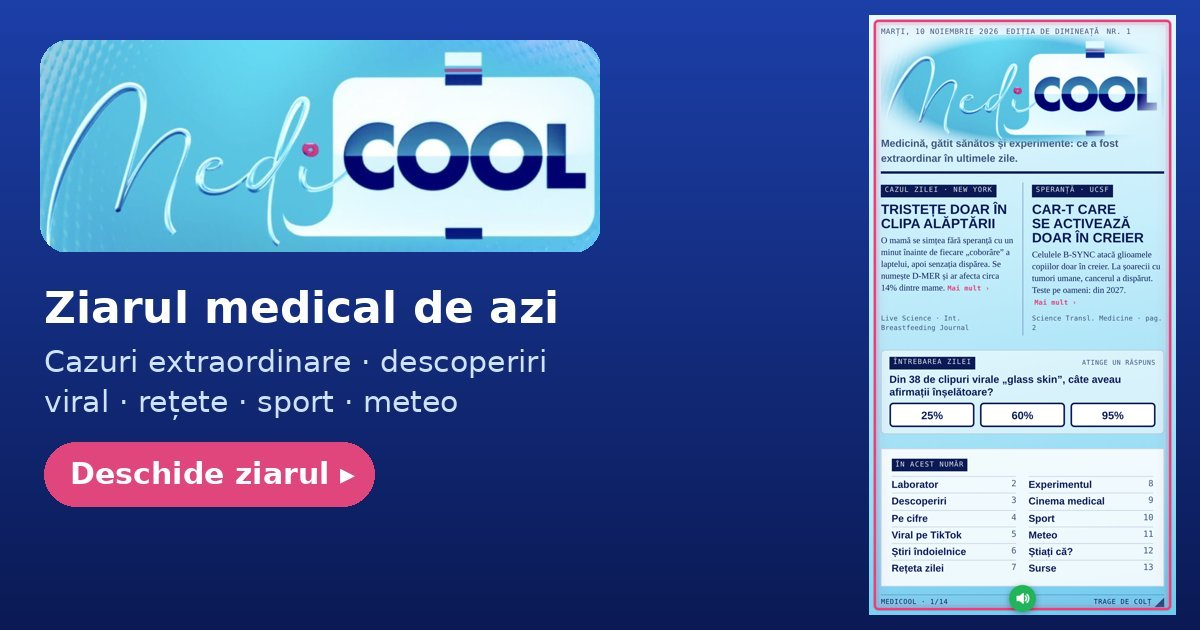
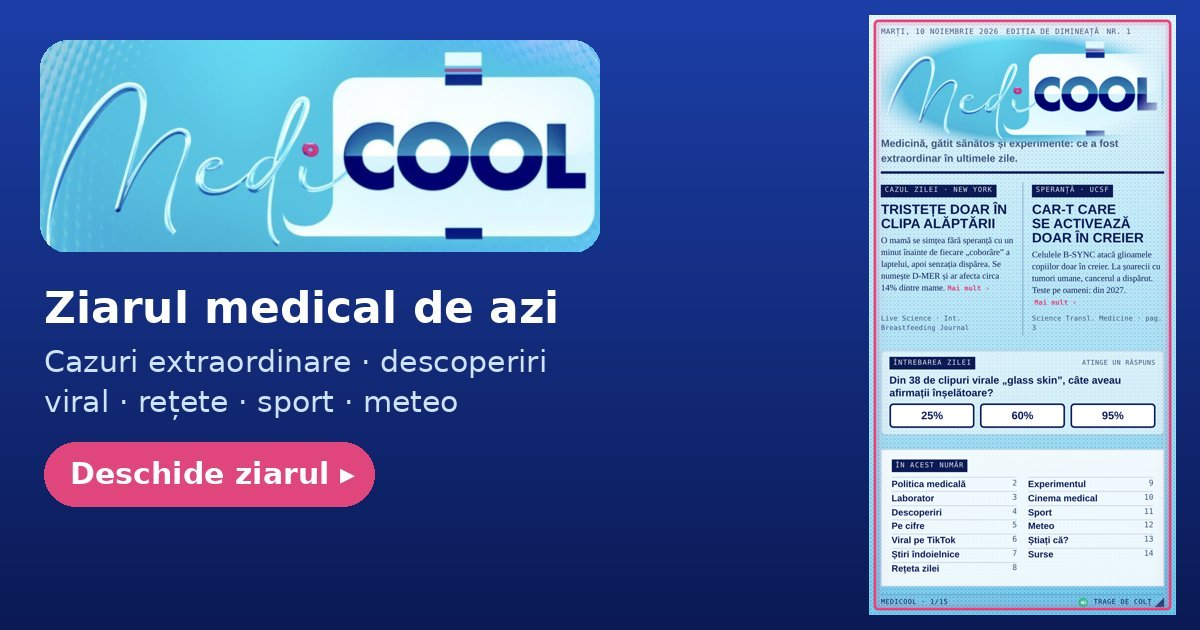
Pagină nouă: Politica medicală (pag. 2)
Claude-Session: https://claude.ai/code/session_01FzDV5b68UMWScboPR3TvHi

Changed region(s): [[0.74, 0.5429, 0.9558, 0.9048], [0.8325, 0.754, 0.9558, 0.9952], [0.7708, 0.9349, 0.8017, 0.9651]]

diff --git a/2026-11-10/ziar.html b/2026-11-10/ziar.html
@@ -182,6 +182,13 @@ p{margin:0}
   background-size:5px 5px,5px 5px;background-position:0 0,2.5px 2.5px;
   -webkit-mask-image:linear-gradient(172deg,rgba(0,0,0,.35) 0%,rgba(0,0,0,.6) 45%,#000 100%);mask-image:linear-gradient(172deg,rgba(0,0,0,.35) 0%,rgba(0,0,0,.6) 45%,#000 100%)}
 .page>.pg{position:relative;z-index:1}
+.tile.pol h2{font-size:1.12em}
+.page.cover .index{font-size:.84em}
+.page.cover .index li{padding:.02em 0}
+.tile.pol p{font-size:.84em;line-height:1.34;margin:.25em 0 0}
+.tile.pol .pv{font-size:.8em;border-top:1px dashed rgba(11,26,85,.3);padding-top:.3em;margin-top:.35em}
+.tile.pol.sm b{display:block;font-family:var(--font-display);font-stretch:85%;font-weight:800;font-size:.98em;line-height:1.1;margin:.25em 0 .15em}
+.tile.pol.sm p{font-size:.78em}
 .hd.novid,.dub.novid{grid-template-columns:1fr!important}
 .vid.th,.vthumb.th{background-size:cover!important;background-position:center!important}
 .vid.th:before,.vthumb.th:before{background:linear-gradient(180deg,rgba(11,26,85,.15) 0%,rgba(11,26,85,0) 35%,rgba(11,26,85,.75) 100%)!important}
@@ -258,22 +265,48 @@ subiecte_recente: 2026-11-09 copil de piatră Somaliland; gel smalț Nottingham;
         <span class="kicker">Speranță · UCSF</span>
         <h2>CAR-T care se activează doar în creier</h2>
         <p>Celulele B-SYNC atacă glioamele copiilor doar în creier. La șoarecii cu tumori umane, cancerul a dispărut. Teste pe oameni: din 2027.<a class="more" href="https://www.sciencedaily.com/releases/2026/11/261104084009.htm" target="_blank" rel="noopener">Mai mult ›</a></p>
-        <span class="src">Science Transl. Medicine · pag. 2</span>
+        <span class="src">Science Transl. Medicine · pag. 3</span>
       </article>
     </div>
     <div class="quiz" data-ok="c">
       <div class="qhead"><span class="kicker">Întrebarea zilei</span><span class="qhint">atinge un răspuns</span></div>
       <p class="qq">Din 38 de clipuri virale „glass skin”, câte aveau afirmații înșelătoare?</p>
       <div class="qopts"><button type="button" class="qopt" data-k="a">25%</button><button type="button" class="qopt" data-k="b">60%</button><button type="button" class="qopt" data-k="c">95%</button></div>
-      <p class="qexp"><b>Răspuns: 95%</b> din clipurile „glass skin” aveau afirmații înșelătoare. Doar unul pomenea iritația (pag. 5).</p>
+      <p class="qexp"><b>Răspuns: 95%</b> din clipurile „glass skin” aveau afirmații înșelătoare. Doar unul pomenea iritația (pag. 6).</p>
     </div>
     <div class="tile"><span class="kicker">În acest număr</span>
         <ul class="index cols2">
-          <li>Laborator<span>2</span></li><li>Descoperiri<span>3</span></li><li>Pe cifre<span>4</span></li><li>Viral pe TikTok<span>5</span></li><li>Știri îndoielnice<span>6</span></li><li>Rețeta zilei<span>7</span></li><li>Experimentul<span>8</span></li><li>Cinema medical<span>9</span></li><li>Sport<span>10</span></li><li>Meteo<span>11</span></li><li>Știați că?<span>12</span></li><li>Surse<span>13</span></li>
+          <li>Politica medicală<span>2</span></li><li>Laborator<span>3</span></li><li>Descoperiri<span>4</span></li><li>Pe cifre<span>5</span></li><li>Viral pe TikTok<span>6</span></li><li>Știri îndoielnice<span>7</span></li><li>Rețeta zilei<span>8</span></li><li>Experimentul<span>9</span></li><li>Cinema medical<span>10</span></li><li>Sport<span>11</span></li><li>Meteo<span>12</span></li><li>Știați că?<span>13</span></li><li>Surse<span>14</span></li>
         </ul>
       </div>
   </div>
-  <div class="foot"><span>Medicool · 1/14</span><span class="turn">Trage de colț <i></i></span></div>
+  <div class="foot"><span>Medicool · 1/15</span><span class="turn">Trage de colț <i></i></span></div>
+</div></div>
+
+<!-- 2 · POLITICA MEDICALA -->
+<div class="page"><div class="pg">
[1 lines of base64/hex data omitted]
+  <h1 class="section">Politica medicală</h1>
+  <div class="grow">
+    <article class="tile mark pol">
+      <span class="kicker">Pacienți cronici · RMN și CT</span>
+      <h2>Un singur RMN pe an, de zece luni</h2>
+      <p>Din ianuarie, cronicii în monitorizare au decontată o singură investigație de înaltă performanță pe an. Ordonanța care elimina limita, pusă în dezbatere în aprilie, nu a fost adoptată. Senatul a votat pe 12 octombrie, fără voturi împotrivă, proiectul L550/2026.</p>
+      <p class="pv"><b>Critici:</b> 13 asociații de pacienți spun că amânarea investigațiilor agravează bolile. <a class="more" href="https://www.dcnews.ro/asociatiile-de-pacienti-cer-guvernului-eliminarea-limitarii-investigatiilor-medicale-si-acces-echitabil-pentru-toti-bolnavii-cronici_1091160.html" target="_blank" rel="noopener">Mai mult ›</a></p>
+    </article>
+    <article class="tile pol">
+      <span class="kicker">Concediu medical · OUG 91/2025</span>
+      <h2>Prima zi de boală nu se mai plătește</h2>
+      <p>Din 1 februarie, prima zi de concediu medical nu e plătită, iar indemnizația e 55% până la 7 zile. Din iunie sunt exceptate maternitatea, internările și pacienții din programele naționale.</p>
+      <p class="pv"><b>Critici:</b> pacienții cronici au strâns semnături, iar Cartel Alfa a cerut sesizarea CCR. <b>Guvernul:</b> combate concediile fictive; regula există și în Spania sau Belgia. <a class="more" href="https://www.digi24.ro/stiri/actualitate/social/prima-zi-de-concediu-medical-nu-va-mai-fi-platita-pacientii-cronici-protesteaza-inseamna-painea-pe-o-saptamana-3610717" target="_blank" rel="noopener">Mai mult ›</a></p>
+    </article>
+    <div class="row">
+      <div class="tile pol sm"><span class="kicker">Analize „gratuite”</span><b>Fonduri epuizate la laborator</b><p>Ministrul Alexandru Rogobete: unele laboratoare afișează sigla CNAS deși au plafoane mici. Vrea ca suma contractată să fie publică; încă fără dată. <a class="more" href="https://brasovstiri.ro/mergi-la-analize-gratuite-si-afli-ca-nu-mai-sunt-fonduri-ministrul-sanatatii-anunta-schimbari-pentru-laboratoarele-private/" target="_blank" rel="noopener">Mai mult ›</a></p></div>
+      <div class="tile pol sm"><span class="kicker">Fără venit</span><b>Asigurare de 2.430 lei pe an</b><p>Din august 2025, soții și părinții fără venit nu mai sunt coasigurați gratuit. Fără plată, rămân doar pachetul minimal și consultațiile preventive. <a class="more" href="https://www.economica.net/?p=905560" target="_blank" rel="noopener">Mai mult ›</a></p></div>
+    </div>
+    <p class="note" style="color:var(--ink)"><b>Medicii de familie:</b> plata per pacient −32%, per consultație +29%. Medicii se tem de închiderea unor cabinete rurale; Ministerul: banii urmează actul medical. <a class="more" href="https://www.digi24.ro/stiri/guvernul-a-redus-plata-per-pacient-si-a-crescut-plata-pe-consultatii-pentru-medicii-de-familie-din-2026-3567971" target="_blank" rel="noopener">Mai mult ›</a></p>
+  </div>
+  <div class="foot"><span>Medicool · 2/15</span><span class="turn">Trage de colț <i></i></span></div>
 </div></div>
 
 <!-- 2 · LABORATOR -->
@@ -295,7 +328,7 @@ subiecte_recente: 2026-11-09 copil de piatră Somaliland; gel smalț Nottingham;
       <span class="src">ScienceDaily · Nature Communications</span>
     </article>
   </div>
-  <div class="foot"><span>Medicool · 2/14</span><span class="turn">Trage de colț <i></i></span></div>
+  <div class="foot"><span>Medicool · 3/15</span><span class="turn">Trage de colț <i></i></span></div>
 </div></div>
 
 <!-- 3 · DESCOPERIRI -->
@@ -309,7 +342,7 @@ subiecte_recente: 2026-11-09 copil de piatră Somaliland; gel smalț Nottingham;
     <p class="note">Niciunul nu e încă tratament aprobat. Rapamicina nu a demonstrat că previne Alzheimerul.</p>
     <span class="src">ScienceDaily · J Exp Med · JCO Oncology Advances · PNAS · J Cereb Blood Flow Metab</span>
   </div>
-  <div class="foot"><span>Medicool · 3/14</span><span class="turn">Trage de colț <i></i></span></div>
+  <div class="foot"><span>Medicool · 4/15</span><span class="turn">Trage de colț <i></i></span></div>
 </div></div>
 
 <!-- 4 · PE CIFRE -->
@@ -330,7 +363,7 @@ subiecte_recente: 2026-11-09 copil de piatră Somaliland; gel smalț Nottingham;
       <span class="src">ScienceDaily · JAMA Network Open</span>
     </article>
   </div>
-  <div class="foot"><span>Medicool · 4/14</span><span class="turn">Trage de colț <i></i></span></div>
+  <div class="foot"><span>Medicool · 5/15</span><span class="turn">Trage de colț <i></i></span></div>
 </div></div>
 
 <!-- 5 · VIRAL -->
@@ -355,7 +388,7 @@ subiecte_recente: 2026-11-09 copil de piatră Somaliland; gel smalț Nottingham;
     <a class="vid" href="https://www.youtube.com/watch?v=CHPlvplwOWw" target="_blank" rel="noopener"><span class="plat">▶ YouTube · specialiști în îngrijirea pielii</span><span class="play"></span><span class="cap">Adevărul despre trendul „glass skin”</span></a>
     <div class="vidnote">Atinge imaginea: clipul se deschide în YouTube</div>
   </div>
-  <div class="foot"><span>Medicool · 5/14</span><span class="turn">Trage de colț <i></i></span></div>
+  <div class="foot"><span>Medicool · 6/15</span><span class="turn">Trage de colț <i></i></span></div>
 </div></div>
 
 <!-- 6 · INDOIELNICE -->
@@ -366,7 +399,7 @@ subiecte_recente: 2026-11-09 copil de piatră Somaliland; gel smalț Nottingham;
     <p style="font-size:.86em;margin-top:-.2em">Obiceiuri, tratamente și povești care circulă ca adevăruri, dar n-au dovezi științifice serioase. <b>Nu le încercați acasă.</b></p>
 <div class="tile dub"><a class="vthumb" href="https://www.youtube.com/watch?v=AJI_kn_-jGE" target="_blank" rel="noopener"><span class="play"></span><span class="plat">▶ YouTube</span></a><div><h3>Plasturii „detox” pentru tălpi</h3><p>Se înnegresc peste noapte și ar „scoate toxinele”. Mayo Clinic: nicio dovadă de încredere. Corpul se curăță singur, prin ficat și rinichi. Culoarea vine de la oțetul de lemn din plasture, care se închide la contactul cu transpirația.<a class="more" href="https://www.mayoclinic.org/healthy-living/consumer-health/expert-answers/detox-foot-pads/faq-20057807" target="_blank" rel="noopener">Mai mult ›</a></p></div><span class="stamp">Fals</span></div><div class="tile dub"><a class="vthumb" href="https://www.youtube.com/watch?v=qq8hfhBKag4" target="_blank" rel="noopener"><span class="play"></span><span class="plat">▶ YouTube</span></a><div><h3>Apa alcalină „echilibrează pH-ul”</h3><p>Sucul gastric o neutralizează aproape imediat. Beneficiile promise nu au fost testate corect, spune Cleveland Clinic. Hidratează ca apa obișnuită. pH-ul sângelui rămâne între 7,35 și 7,45, ținut de plămâni și rinichi, orice ai bea.<a class="more" href="https://health.clevelandclinic.org/alkaline-water-dont-believe-the-marketing-hype" target="_blank" rel="noopener">Mai mult ›</a></p></div><span class="stamp">Exagerat</span></div><div class="tile dub"><a class="vthumb" href="https://www.youtube.com/watch?v=T58YRgdrljM" target="_blank" rel="noopener"><span class="play"></span><span class="plat">▶ YouTube</span></a><div><h3>Argintul coloidal, „antibiotic natural”</h3><p>Nu are niciun rol în corp. Poate colora pielea gri-albăstrui, de obicei pentru totdeauna (argirie), și încurcă unele medicamente. Din 1999, FDA consideră că niciun produs cu argint coloidal nu e sigur și eficient.<a class="more" href="https://www.nccih.nih.gov/health/colloidal-silver" target="_blank" rel="noopener">Mai mult ›</a></p></div><span class="stamp">Periculos</span></div><div class="tile dub"><a class="vthumb" href="https://www.youtube.com/watch?v=0ZozqP359UY" target="_blank" rel="noopener"><span class="play"></span><span class="plat">▶ YouTube</span></a><div><h3>Heroina, sirop de tuse în 1898</h3><p>Bayer a lansat-o pentru tuse și răceală. A fost lăudată ca înlocuitor „fără dependență” al morfinei. Nu era deloc așa. Bayer a oprit producția abia în 1913, după valul de dependențe.<a class="more" href="https://atlasobscura.com/articles/narcotics-in-medicine" target="_blank" rel="noopener">Mai mult ›</a></p></div><span class="stamp dead">Mortal · 1898</span></div>
   </div>
-  <div class="foot"><span>Medicool · 6/14</span><span class="turn">Trage de colț <i></i></span></div>
+  <div class="foot"><span>Medicool · 7/15</span><span class="turn">Trage de colț <i></i></span></div>
 </div></div>
 
 <!-- 7 · RETETA -->
@@ -398,7 +431,7 @@ subiecte_recente: 2026-11-09 copil de piatră Somaliland; gel smalț Nottingham;
     <div class="tile"><span class="kicker">De ce merge</span><p style="font-size:.86em;margin:.3em 0 0">Năutul aduce proteine și fibre, dovleacul beta-caroten, semințele magneziu și zinc. Ține două zile la frigider.</p></div>
     <a class="vid sm" href="https://www.youtube.com/watch?v=_H5PqGHaSN0" target="_blank" rel="noopener"><span class="play"></span><span class="cap"><span class="plat">▶ YouTube · rețetă</span><br>Salată de năut și dovleac copt, bogată în fibre</span></a>
   </div>
-  <div class="foot"><span>Medicool · 7/14</span><span class="turn">Trage de colț <i></i></span></div>
+  <div class="foot"><span>Medicool · 8/15</span><span class="turn">Trage de colț <i></i></span></div>
 </div></div>
 
 <!-- 8 · EXPERIMENT -->
@@ -429,7 +462,7 @@ subiecte_recente: 2026-11-09 copil de piatră Somaliland; gel smalț Nottingham;
       <a class="vid sm" href="https://www.youtube.com/watch?v=58MZ_WbJUGs" target="_blank" rel="noopener"><span class="play"></span><span class="cap"><span class="plat">▶ YouTube · Richard Ostfeld</span><br>Căpușele, șoarecii și borelioza</span></a>
     </article>
   </div>
-  <div class="foot"><span>Medicool · 8/14</span><span class="turn">Trage de colț <i></i></span></div>
+  <div class="foot"><span>Medicool · 9/15</span><span class="turn">Trage de colț <i></i></span></div>
 </div></div>
 
 <!-- 9 · CINEMA -->
@@ -460,7 +493,7 @@ subiecte_recente: 2026-11-09 copil de piatră Somaliland; gel smalț Nottingham;
       </ul>
     </article>
   </div>
-  <div class="foot"><span>Medicool · 9/14</span><span class="turn">Trage de colț <i></i></span></div>
+  <div class="foot"><span>Medicool · 10/15</span><span class="turn">Trage de colț <i></i></span></div>
 </div></div>
 
 <!-- 10 · SPORT -->
@@ -485,7 +518,7 @@ subiecte_recente: 2026-11-09 copil de piatră Somaliland; gel smalț Nottingham;
       <span class="src">Nature Communications · Pennington</span>
     </article>
   </div>
-  <div class="foot"><span>Medicool · 10/14</span><span class="turn">Trage de colț <i></i></span></div>
+  <div class="foot"><span>Medicool · 11/15</span><span class="turn">Trage de colț <i></i></span></div>
 </div></div>
 
 <!-- 11 · METEO -->
@@ -514,7 +547,7 @@ subiecte_recente: 2026-11-09 copil de piatră Somaliland; gel smalț Nottingham;
     <p class="note" style="color:var(--ink)"><b>Nicio atenționare meteo anunțată pentru azi.</b> Joi și vineri se încălzește spre 18–21°C în sud și vest, apoi răcire bruscă pe 14–16 noiembrie. Salturile mari îi afectează pe meteosensibili.<a class="more" href="https://observatornews.ro/vremea/urmeaza-cateva-zile-cu-temperaturi-de-pana-la-20c-apoi-vine-iar-frigul-prognoza-meteo-9-22-noiembrie-2026-671743.html" target="_blank" rel="noopener">Mai mult ›</a></p>
     <span class="src">Orașe: vremeain.ro (Timișoara: județul Timiș) · Sfaturi generale, nu recomandări medicale individuale.</span>
   </div>
-  <div class="foot"><span>Medicool · 11/14</span><span class="turn">Trage de colț <i></i></span></div>
+  <div class="foot"><span>Medicool · 12/15</span><span class="turn">Trage de colț <i></i></span></div>
 </div></div>
 
 <!-- 12 · STIATI CA -->
@@ -528,7 +561,7 @@ subiecte_recente: 2026-11-09 copil de piatră Somaliland; gel smalț Nottingham;
       <article class="tile fact"><span class="fnum">4</span><div><h3>Scheletul se reface cam la 10 ani.</h3><p>Oasele sunt țesut viu: celule speciale dizolvă osul vechi și construiesc os nou, continuu, toată viața. Masa osoasă atinge maximul în jurul vârstei de 30 de ani; mișcarea o ajută să rămână mare.<a class="more" href="https://news.uams.edu/2023/03/16/bones/" target="_blank" rel="noopener">Mai mult ›</a></p></div></article>
       <article class="tile fact"><span class="fnum">5</span><div><h3>Inima bate de circa 100.000 de ori pe zi.</h3><p>Pompează în fiecare zi aproximativ 7.500 de litri de sânge. Într-o viață, trece de 2,5 miliarde de bătăi. În repaus, ritmul normal e între 60 și 100 de bătăi pe minut.<a class="more" href="https://www.peacehealth.org/locations/springfield/peacehealth-cardiac-surgery-riverbend-pavilion/how-the-heart-works" target="_blank" rel="noopener">Mai mult ›</a></p></div></article>
   </div>
-  <div class="foot"><span>Medicool · 12/14</span><span class="turn">Trage de colț <i></i></span></div>
+  <div class="foot"><span>Medicool · 13/15</span><span class="turn">Trage de colț <i></i></span></div>
 </div></div>
 
 <!-- 13 · SURSE -->
@@ -541,6 +574,11 @@ subiecte_recente: 2026-11-09 copil de piatră Somaliland; gel smalț Nottingham;
       <p class="note" style="color:var(--ink)">Medicool nu dă sfaturi medicale. Studiile pe animale și asocierile sunt marcate ca atare. Clipurile se deschid în YouTube. Textele sunt rezumate proprii în română, nu traduceri.</p>
     </div>
     <ol class="srclist">
+      <li><a href="https://www.dcnews.ro/asociatiile-de-pacienti-cer-guvernului-eliminarea-limitarii-investigatiilor-medicale-si-acces-echitabil-pentru-toti-bolnavii-cronici_1091160.html">DCNews, limita de un RMN pe an</a></li>
+      <li><a href="https://www.digi24.ro/stiri/actualitate/social/prima-zi-de-concediu-medical-nu-va-mai-fi-platita-pacientii-cronici-protesteaza-inseamna-painea-pe-o-saptamana-3610717">Digi24, prima zi de concediu medical</a></li>
+      <li><a href="https://brasovstiri.ro/mergi-la-analize-gratuite-si-afli-ca-nu-mai-sunt-fonduri-ministrul-sanatatii-anunta-schimbari-pentru-laboratoarele-private/">Brașov Știri, laboratoarele și fondurile CNAS</a></li>
+      <li><a href="https://www.economica.net/?p=905560">Economica.net, asigurarea opțională 2026</a></li>
+      <li><a href="https://www.digi24.ro/stiri/guvernul-a-redus-plata-per-pacient-si-a-crescut-plata-pe-consultatii-pentru-medicii-de-familie-din-2026-3567971">Digi24, plata medicilor de familie</a></li>
       <li><a href="https://www.livescience.com/health/diagnostic-dilemma-mom-experienced-extreme-unhappiness-only-when-she-breastfed">Live Science, cazul D-MER</a></li>
       <li><a href="https://www.sciencedaily.com/releases/2026/11/261104084009.htm">ScienceDaily, CAR-T pentru glioame (UCSF)</a></li>
       <li><a href="https://www.sciencedaily.com/releases/2026/11/261101010552.htm">ScienceDaily, monoxidul de carbon și cancerul (RIKEN)</a></li>
@@ -574,7 +612,7 @@ subiecte_recente: 2026-11-09 copil de piatră Somaliland; gel smalț Nottingham;
       <li><a href="https://www.peacehealth.org/locations/springfield/peacehealth-cardiac-surgery-riverbend-pavilion/how-the-heart-works">PeaceHealth, cum lucrează inima</a></li>
     </ol>
   </div>
-  <div class="foot"><span>Medicool · 13/14</span><span class="turn">Trage de colț <i></i></span></div>
+  <div class="foot"><span>Medicool · 14/15</span><span class="turn">Trage de colț <i></i></span></div>
 </div></div>
 
 <!-- LOGO BOSTI -->
